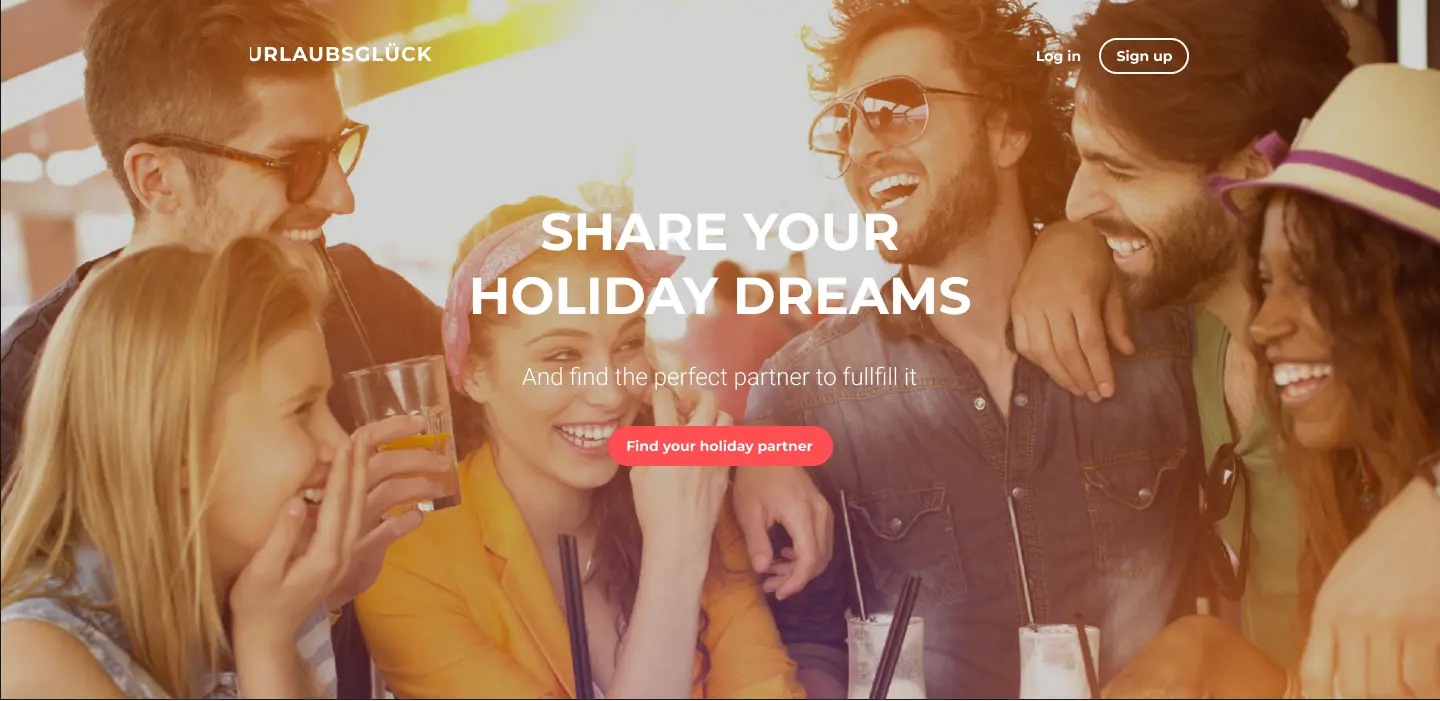
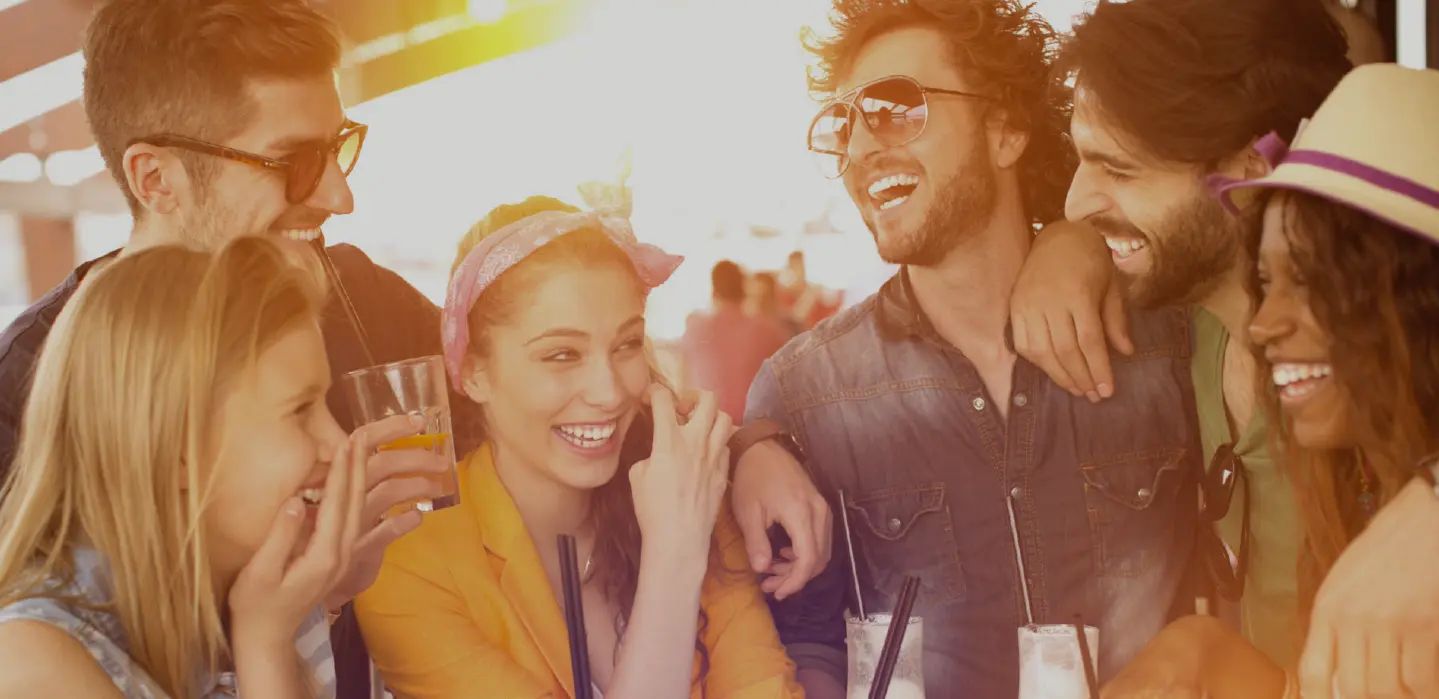
kokos

diff --git a/css/main.css b/css/main.css
@@ -7,9 +7,111 @@ h2 {
   margin: 100px;
 }
 
-.hero_image {
-  width: 100%;
+.partners-button {
+  color: #FF4E50;
+  border: 1px solid #FF4E50;
+  background-color: #FFFFFF;
+  border-radius: 25px;
+  padding: 10px;
+}
+
+.last_button {
+  display: flex;
+  justify-content: center;
+  align-items: center;
+  margin-top: 50px;
+}
+
+.text-hero_1 {
+  font-weight: 700;
+  font-family: "Montserrat", sans-serif;
+  font-size: 20px;
+  color: #FFFFFF;
+}
+
+.text-hero_2 {
+  font-weight: 300;
+  font-family: "Roboto", sans-serif;
+  font-size: 24px;
+  color: #FFFFFF;
+}
+
+.hero {
+  height: 850px;
+  color: #FFFFFF;
+  background-image: url("../Images/hero.webp");
+  background-size: cover;
+  background-position: center;
+  background-repeat: no-repeat;
+  text-align: center;
+}
+
+h1 {
+  font-weight: 700;
+  font-family: "Montserrat", sans-serif;
+  font-size: 52px;
+  color: #FFFFFF;
+  max-width: 508px;
   height: auto;
+}
+
+.header_text {
+  display: flex;
+  align-items: center;
+  justify-content: center;
+  flex-direction: row;
+  gap: 675px;
+  margin-bottom: 50px;
+}
+
+.log-in {
+  background: none;
+  border: 0px;
+  color: #FFFFFF;
+  text-align: center;
+  font-size: 14px;
+}
+
+.sign-up {
+  background: none;
+  border: 2px solid #FFFFFF;
+  color: #FFFFFF;
+  font-size: 14px;
+  border-radius: 20px;
+  width: 93px;
+  height: 39px;
+}
+
+.buttons-hero {
+  display: flex;
+  align-items: center;
+  gap: 10px;
+}
+
+.second_text {
+  display: flex;
+  justify-content: center;
+  align-items: center;
+  flex-direction: column;
+  gap: 20px;
+}
+
+.second_text h1 {
+  margin: 0;
+}
+
+.text-hero_2 {
+  margin: 20px 0;
+}
+
+.hero-button {
+  background-color: #FF4E50;
+  color: #FFFFFF;
+  border-radius: 20px;
+  border: 0px;
+  width: 250px;
+  height: 45px;
+  cursor: pointer;
 }
 
 .people {

diff --git a/sass/sections/_hero.scss b/sass/sections/_hero.scss
@@ -1,5 +1,92 @@
+.text-hero_1 {
+    font-weight: 700;
+    font-family: "Montserrat", sans-serif;
+    font-size: 20px;
+    color: #FFFFFF;
+}
 
-.hero_image{
-    width: 100%;
+.text-hero_2 {
+    font-weight: 300;
+    font-family: "Roboto", sans-serif;
+    font-size: 24px;
+    color: #FFFFFF;
+}
+
+.hero {
+    height: 850px;
+    color: #FFFFFF;
+    background-image: url("../Images/hero.webp");
+    background-size: cover;
+    background-position: center;
+    background-repeat: no-repeat;
+    text-align: center;
+}
+
+h1{
+    font-weight: 700;
+    font-family: "Montserrat", sans-serif;
+    font-size: 52px;
+    color: #FFFFFF;
+    max-width: 508px;
     height: auto;
 }
+
+.header_text {
+    display: flex;
+    align-items: center;
+    justify-content: center;
+    flex-direction: row;
+    gap: 675px;
+    margin-bottom: 50px;
+}
+
+.log-in{
+    background: none;
+    border: 0px;
+    color: #FFFFFF;
+    text-align: center;
+    font-size: 14px;
+}
+
+.sign-up{
+    background: none;
+    border: 2px solid #FFFFFF;
+    color: #FFFFFF;
+    font-size: 14px;
+    border-radius: 20px;
+    width: 93px;
+    height: 39px;
+}
+
+.buttons-hero {
+    display: flex;
+    align-items: center;
+    gap: 10px;
+}
+
+.second_text {
+    display: flex;
+    justify-content: center;
+    align-items: center;
+    flex-direction: column;
+    gap: 20px;
+}
+
+.second_text h1 {
+    margin: 0;
+}
+
+.text-hero_2 {
+    margin: 20px 0;
+}
+
+.hero-button{
+    background-color: #FF4E50;
+    color: #FFFFFF;
+    border-radius: 20px;
+    border: 0px;
+    width: 250px;
+    height: 45px;
+    cursor: pointer;
+}
+

diff --git a/index.html b/index.html
@@ -17,7 +17,29 @@
     <main>
 
         <section class="hero">
-            
+
+            <div class="hero-container">
+
+                <div class="header_text">
+
+                    <h2 class="text-hero_1">URLAUBSGLÜCK</h2>
+
+                    <div class="buttons-hero">
+                        <button class="log-in">Log in</button>
+                        <button class="sign-up">Sign up</button>
+                    </div>
+
+                </div>
+
+                <div class="second_text">
+                    <h1>Share your holiday dreams</h1>
+                    <h2 class="text-hero_2">And find the perfect partner to fullfill it</h2>
+
+                    <button class="hero-button">Find your holiday partner</button>
+                </div>
+
+            </div>
+
         </section>
 
         <h2>Meet a partner for you best holiday</h2>
@@ -49,8 +71,11 @@
                 <p>Based in Chicago. I love playing tennis and loud music.</p>
             </div>
 
-            <button class="partners-button">See other partners</button>
 
+        </div>
+
+        <div class="last_button">
+            <button class="partners-button">See other partners</button>
         </div>
 
     </main>

diff --git a/sass/sections/_main.scss b/sass/sections/_main.scss
@@ -6,3 +6,18 @@ h2{
     text-align: center;
     margin: 100px;
 }
+
+.partners-button {
+    color: #FF4E50;
+    border: 1px solid #FF4E50;
+    background-color: #FFFFFF;
+    border-radius: 25px;
+    padding: 10px;
+}
+
+.last_button{
+    display: flex;
+    justify-content: center;
+    align-items: center;
+    margin-top: 50px;
+}
